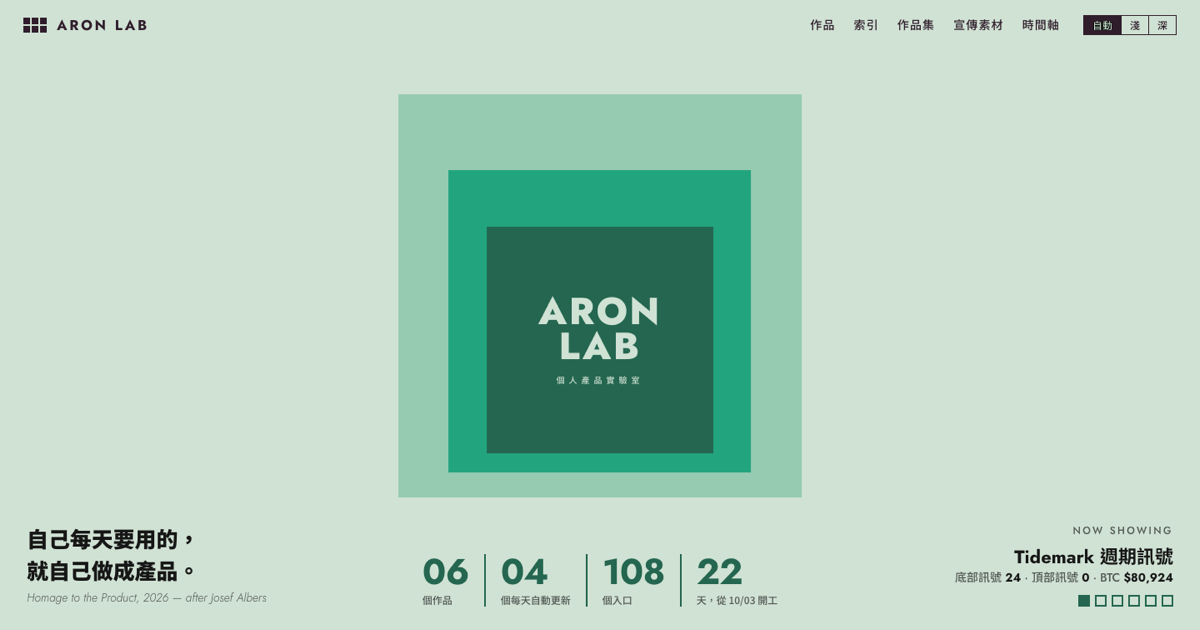
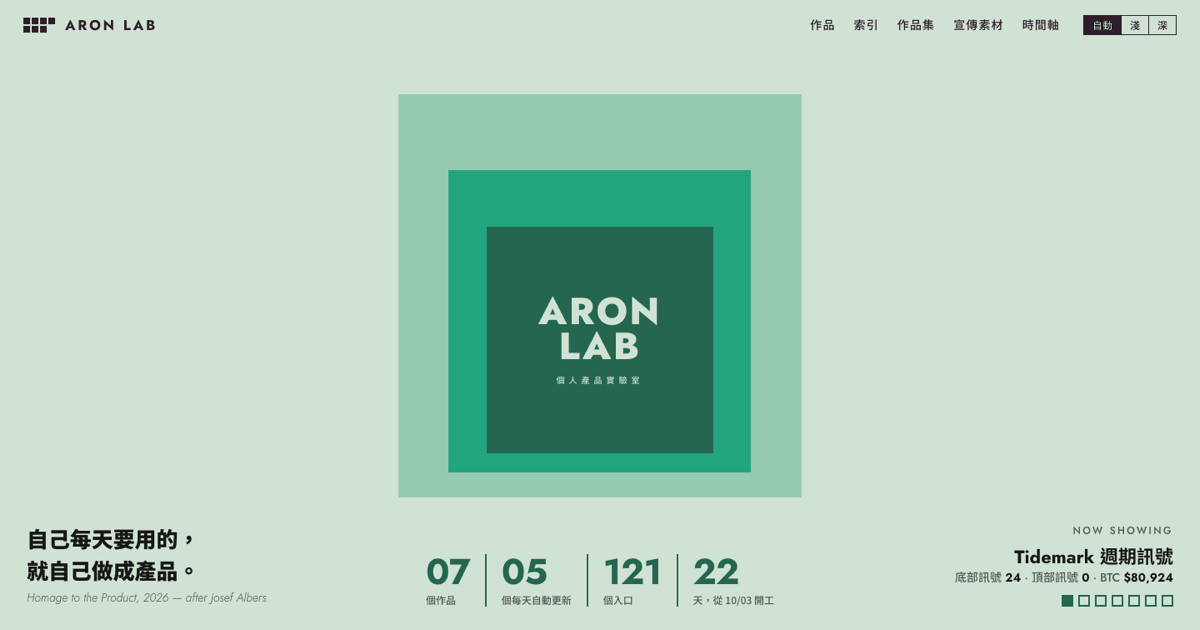
加入第七件作品 Signal Tower（BTC 策略帳戶的紙上交易）
- data/lab.js：作品 No.07，8 個區塊直達連結、策略規格與停用規則、本機版、原始碼；兩筆里程碑
- 封面 assets/covers/signals.jpg，tools/covers.sh 加入 signals
- 分享圖更新為 7 件作品、121 個入口；README 與頁面說明補上

Changed region(s): [[0.3392, 0.8746, 0.6475, 0.9651], [0.0308, 0.0302, 0.1233, 0.0603], [0.8633, 0.9349, 0.925, 0.9651]]

diff --git a/data/lab.js b/data/lab.js
@@ -234,6 +234,37 @@ window.LAB = {
       ],
       links: [],
     },
+    {
+      id: 'signals', no: '07', name: 'Signal Tower', zh: 'BTC 策略帳戶',
+      color: '#3987E5', color2: '#1BAF7A',
+      domains: ['crypto'], kind: '紙上交易',
+      status: 'live', cadence: '每 4 小時更新',
+      started: '2026-10-20',
+      tagline: '每根 4 小時 K 線收盤後，告訴你 BTC 策略帳戶下一步要做什麼。',
+      desc: '兩個經回測驗證的策略：S1 4 小時通道突破、D 日線趨勢動能。網站畫出 K 線上的進出場與停損線、資金曲線、回撤、曝險、逐年報酬與交易紀錄；有要操作的指令時推播到手機。紙上交易的模擬紀錄，不是投資建議。',
+      facts: ['20,000 USDT 紙上帳戶', '全部在雲端自動執行', '指令推播到手機'],
+      site: 'https://north7.github.io/signals/',
+      repo: 'https://github.com/North7/signals',
+      cover: 'assets/covers/signals.jpg',
+      logo: '<svg viewBox="0 0 64 64"><defs><linearGradient id="lg-st" x1="0" y1="0" x2="1" y2="1"><stop offset="0" stop-color="#3987e5"/><stop offset="1" stop-color="#1baf7a"/></linearGradient></defs><rect width="64" height="64" rx="16" fill="url(#lg-st)"/><path d="M12 30H52" stroke="#fff" stroke-width="2.4" stroke-dasharray="3 4" stroke-opacity=".55" stroke-linecap="round"/><path d="M12 42L20 37L26 40L33 35L38 38L46 20" fill="none" stroke="#fff" stroke-width="4.6" stroke-linecap="round" stroke-linejoin="round"/><circle cx="46" cy="20" r="3.8" fill="#fff"/></svg>',
+      sectionsLabel: '區塊',
+      sections: [
+        { n: '01', t: '說明', u: '#intro' },
+        { n: '02', t: '總覽', u: '#overview' },
+        { n: '03', t: '操作', u: '#actions' },
+        { n: '04', t: 'K 線', u: '#kcard' },
+        { n: '05', t: '資金', u: '#eqcard' },
+        { n: '06', t: '風險', u: '#risk' },
+        { n: '07', t: '報酬', u: '#returns' },
+        { n: '08', t: '交易', u: '#trades' },
+      ],
+      links: [
+        { t: '策略規格 STRATEGY.md', u: 'https://github.com/North7/signals/blob/main/STRATEGY.md', type: 'data' },
+        { t: '紙上交易評估與停用規則 RULES.md', u: 'https://github.com/North7/signals/blob/main/RULES.md', type: 'data' },
+        { t: '本機版（記錄成交、切換正式資金）', u: 'http://127.0.0.1:8787/', type: 'local' },
+        { t: '原始碼', u: 'https://github.com/North7/signals', type: 'repo' },
+      ],
+    },
   ],
 
   // 作品集（案例研究）
@@ -279,6 +310,8 @@ window.LAB = {
     { d: '2026-10-13', p: 'daybreak', t: 'X 發文小幫手：中英文貼文一鍵複製、下載當日分享圖' },
     { d: '2026-10-14', p: 'morningbell', t: '新增「重點追蹤」版：九檔指數 ETF 與基金' },
     { d: '2026-10-17', p: 'market-ticker', t: '新增 Glass 玻璃主題；Vital、Daybreak 主題移入封存' },
+    { d: '2026-10-21', p: 'signals', t: '雲端執行：外部排程準時觸發、ntfy 推播操作指令到手機' },
+    { d: '2026-10-22', p: 'signals', t: '寫定紙上交易評估與實盤停用規則（RULES.md）' },
     { d: '2026-10-22', p: 'onestroke', t: '揮拍分析流程完成：切拍、姿態、評分、自動寫分析' },
     { d: '2026-10-23', p: 'daybreak', t: '頭版新增「今日發現」：每日自動偵測異動與關鍵節點' },
     { d: '2026-10-24', p: 'onestroke', t: '球員分開管理；產品案例頁上線' },

diff --git a/index.html b/index.html
@@ -4,7 +4,7 @@
 <meta charset="utf-8">
 <meta name="viewport" content="width=device-width, initial-scale=1, viewport-fit=cover">
 <title>Aron Lab · 作品索引</title>
-<meta name="description" content="Aron Song 的個人產品實驗室：Tidemark、Daybreak、Morningbell、Market Ticker、OneStroke、Baseline，所有作品的入口、分頁索引與作品集。">
+<meta name="description" content="Aron Song 的個人產品實驗室：Tidemark、Daybreak、Morningbell、Market Ticker、OneStroke、Baseline、Signal Tower，所有作品的入口、分頁索引與作品集。">
 <meta name="theme-color" content="#E3EFEA" media="(prefers-color-scheme: light)">
 <meta name="theme-color" content="#141414" media="(prefers-color-scheme: dark)">
 <meta property="og:type" content="website">

diff --git a/README.md b/README.md
@@ -12,6 +12,7 @@
 | 04 | [Market Ticker](https://north7.github.io/market-ticker/) | 副螢幕行情看板，7 個主題 | 已上線 · 即時 |
 | 05 | OneStroke 一拍 | 網球揮拍分析（[產品案例](https://north7.github.io/portfolio/onestroke/)） | 自用 · 本機 |
 | 06 | Baseline 身體日報 | 私人健康日報 | 只在本機，不公開 |
+| 07 | [Signal Tower](https://north7.github.io/signals/) | BTC 策略帳戶的紙上交易：S1 突破 × D 趨勢 | 已上線 · 每 4 小時更新 |
 
 ## 頁面
 
